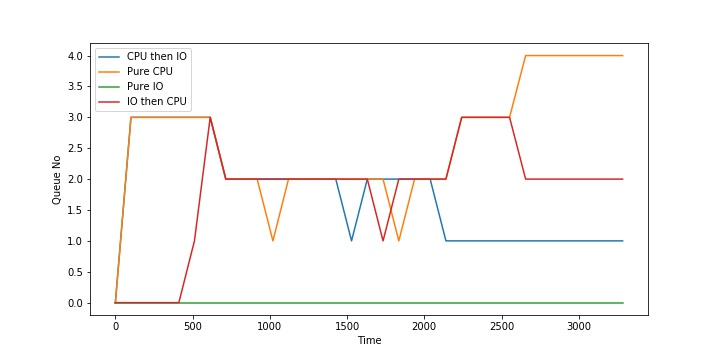
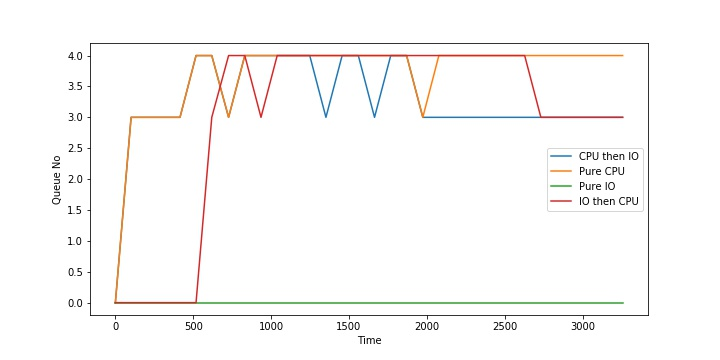
test

diff --git a/Assignment5/2019101050-xv6/README.md b/Assignment5/2019101050-xv6/README.md
@@ -30,7 +30,7 @@ Pulak Malhotra, 2019101050
     - After it is run and it completed the time slice move it down a queue
     - If it did not complete time slice dont change its queue
     - Also check for aging in all processes
-    - Aging wait time is currently (1 << (level + 6)) for a level
+    - Aging wait time is currently (1 << (level + 4)) for a level
     - In trap only yield if the process has done its alloted ticks
 
 I ran the benchmark.c file for all the schedulers and observed the following in it: 
@@ -51,8 +51,9 @@ For each type of scheduler I have noted down the end time of the different types
 ### FCFS
 - Time 3841 ticks 
 - First CPU bound (in ascending order)
-- Then CPU then IO and IO then CPU (in ascending order)
+- Then mixed CPU then IO and IO then CPU (in ascending order)
 - Lastly Pure IO (in ascending order)
+- There is some interleaving among categories but for each type they follow ascending order strictly
 
 
 ### PBS
